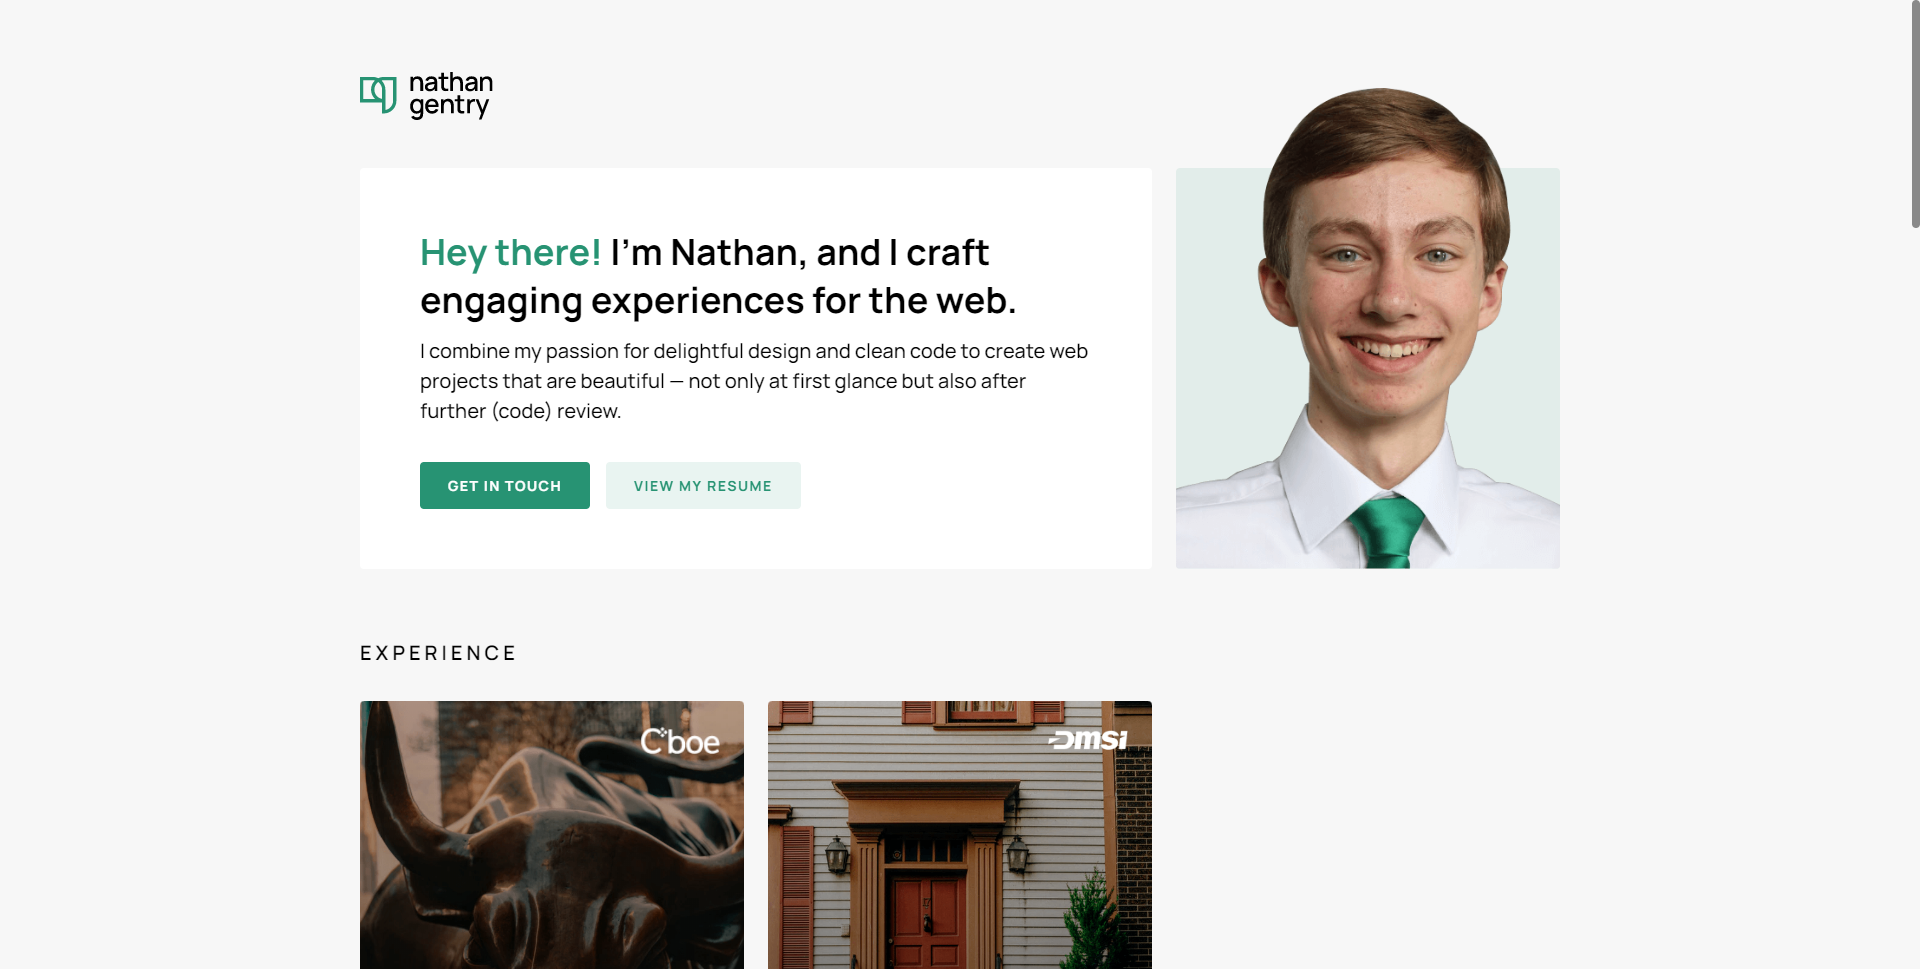
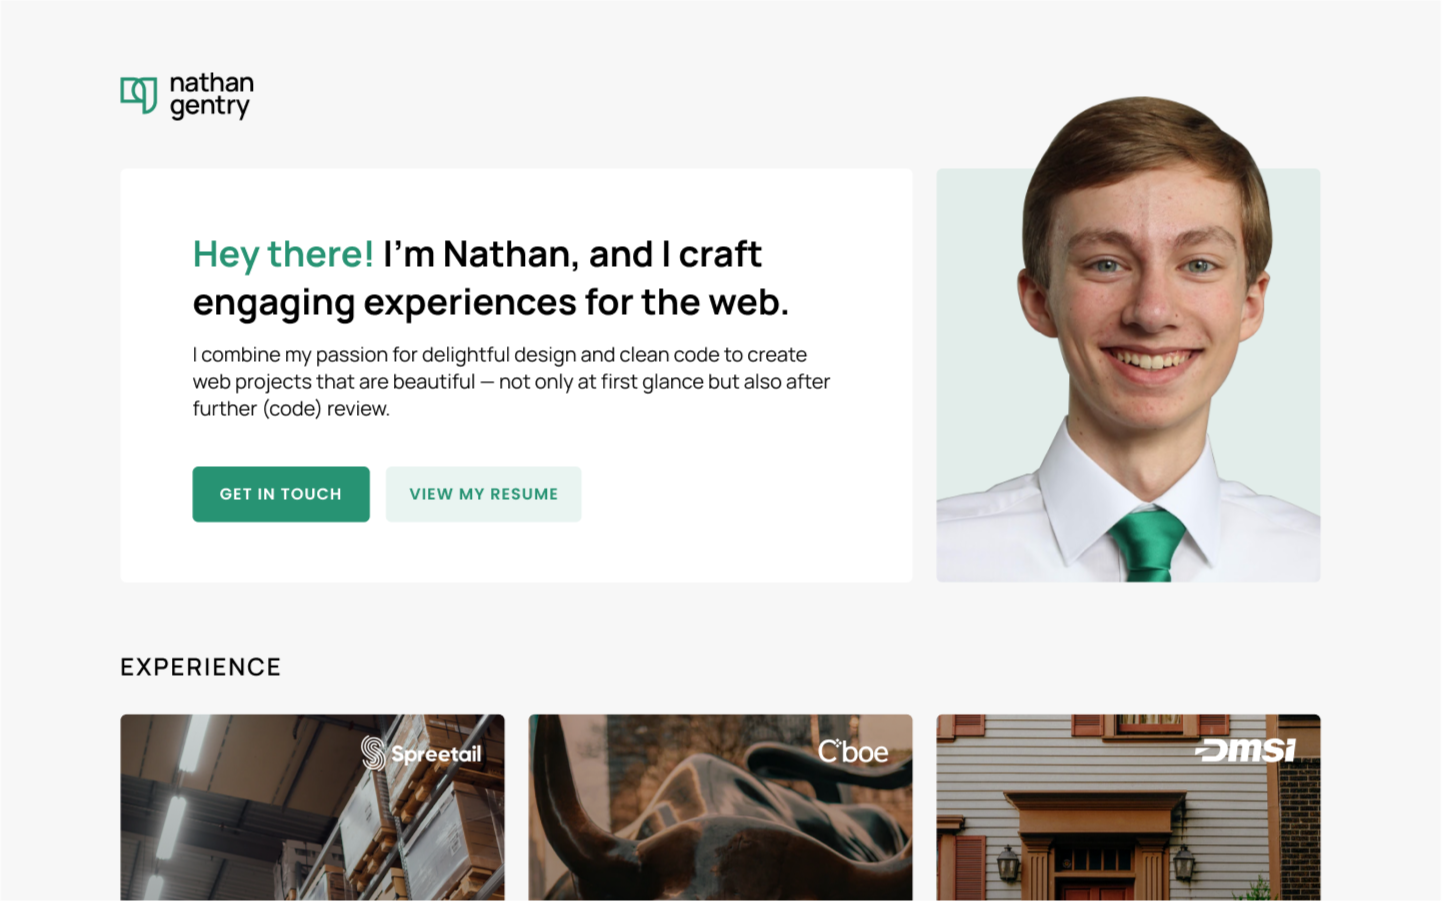
Fall 2021 Updates

diff --git a/src/pages/Home/Home.js b/src/pages/Home/Home.js
@@ -18,12 +18,14 @@ import ContactSection from '../../components/Section/ContactSection';
 import Footer from '../../components/Footer/Footer';
 
 import data from '../../companyData';
+import spreetailMain from '../../assets/spreetailMain.png';
+import spreetailLogo from '../../assets/spreetailLogo.png';
 import cboeMain from '../../assets/cboeMain.png';
 import cboeLogo from '../../assets/cboeLogo.png';
 import dmsiMain from '../../assets/dmsiMain.png';
 import dmsiLogo from '../../assets/dmsiLogo.png';
-import evergreenMain from '../../assets/evergreenMain.png';
-import evergreenLogo from '../../assets/evergreenLogo.png';
+import shindigMain from '../../assets/shindigMain.png';
+import shindigLogo from '../../assets/shindigLogo.png';
 import ngmeMain from '../../assets/ngmeMain.png';
 import ngmeLogo from '../../assets/ngmeLogo.png';
 import bulletinMain from '../../assets/bulletinMain.png';
@@ -107,6 +109,28 @@ const Home = props => {
 
     const experienceData = [
         {
+            id: 'spreetail',
+            title: 'Creating self-service tools empowering warehouse managers nationwide',
+            mainImage: spreetailMain,
+            logoImage: spreetailLogo,
+            company: 'Spreetail',
+            location: 'Lincoln, NE',
+            position: 'Software Development Intern',
+            timeframe: 'Summer 2021',
+            skills: [
+                ['C#', '.NET', 'Entity Framework'],
+                ['React', 'JavaScript', 'GitLab'],
+                ['MVC Framework', 'Jira']
+            ],
+            overview: [
+                'Spreetail is an e-commerce company helping businesses get into e-commerce by storing their products and listing them on more than a dozen online marketplaces. In my 10 weeks at Spreetail, I worked in coordination with the Supply Chain Operations team to develop a brand new suite of self-service tools that empower warehouse managers across the nation to handle data management in their warehouses. These tools offloaded tedious tasks for developers, which had a particular business impact for Spreetail as they look to grow their existing warehouses and expand into new ones.'
+            ],
+            myRole: [
+                'My experience at Spreetail allowed me to get experience working with the full stack of an MVC application. I started my summer with front-end work in React, creating the initial page that would act as a template for our other tools down the line. These pages were centered around leveraging third-party software and internal components to create custom data tables that effectively presented database information to a non-technical end-user.',
+                'After making that first step into the front-end, I transitioned to back-end work in C# and .NET, establishing the controllers, services, accessors, and interfaces necessary to interact with the database using best practices. For the remainder of the summer, I leveraging my full-stack experience to efficiently build out the back-end for additional tools. All-in-all, my colleagues and I collaborated to create tools that empowered warehouse managers to set up new picking carts, packing stations, and label printers.'
+            ]
+        },
+        {
             id: 'cboe',
             title: 'Developing a custom CMS for a high-traffic market insights blog',
             mainImage: cboeMain,
@@ -124,9 +148,9 @@ const Home = props => {
                 'Cboe Global Markets is a major player in the markets and exchanges industry. During the summer of 2020, they were transitioning their market insights blog into a news and video hub to create a more engaging experience for users. As my intern project, I created a content management system (CMS) for the marketing and communications team to streamline publishing content to the new site.'
             ],
             myRole: [
-                'A major focus of mine was on the front end of the application. I communicated effectively in a remote setting with the lead UI designer and stakeholders in the marketing and communications team. Through this collaboration, I translated wireframes into React code, while incorporating changes that benefited end-users.',
+                'A major focus of mine was on the front-end of the application. I communicated effectively in a remote setting with the lead UI designer and stakeholders in the marketing and communications team. Through this collaboration, I translated wireframes into React code, while incorporating changes that benefited end-users.',
                 'For example, the initial design segmented post creation, forcing the user to insert one paragraph, image, or video at a time. When evaluating from the user’s perspective, I felt this would be frustrating — especially compared to their current workflow. Instead, I adapted a familiar rich text editor to meet our project\'s needs while allowing authors to write posts more seamlessly.',
-                'In addition to implementing front end code, I also created API endpoints and library code in Python, as well as database tables in PostgreSQL to ensure uninterrupted data flow from end-to-end.'
+                'In addition to implementing front-end code, I also created API endpoints and library code in Python, as well as database tables in PostgreSQL to ensure uninterrupted data flow from end-to-end.'
             ]
         },
         {
@@ -156,20 +180,22 @@ const Home = props => {
 
     const projectData = [
         {
-            id: 'evergreen',
-            title: 'Launching a design agency that creates dynamic brands and websites',
-            mainImage: evergreenMain,
-            logoImage: evergreenLogo,
-            project: 'Evergreen Design Agency',
-            timeframe: 'Summer 2020 – Present',
+            id: 'shindig',
+            title: 'Launching a web app to help hosts navigate party planning in a pandemic',
+            mainImage: shindigMain,
+            logoImage: shindigLogo,
+            project: 'Shindig',
+            timeframe: 'Spring 2021',
             skills: [
-                ['React', 'CSS', 'Firebase'],
-                ['UI/UX Design', 'Figma', 'Branding'],
-                ['Marketing', 'Entrepreneurship', 'Copywriting']
+                ['UI/UX Design', 'Figma'],
+                ['React', 'CSS-in-JS'],
+                ['Vercel', 'Agile Development']
             ],
             overview: [
-                'Evergreen Design Agency is a branding and website design consulting firm that I launched in June 2020. This involved running social media campaigns to build a presence within the design community and generate potential business leads. Within just weeks, this campaign resulted in a bid for a design project.',
-                'In addition to the social media announcement, I produced a website for Evergreen Design Agency to act as a landing page for the company, highlighting previous work and the value proposition. This process was led from end-to-end by myself, including designing wireframes in Figma and then translating those to code with React and CSS.'
+                'Shindig is an event planning application that helps hosts customize their events to the comfort levels of their guests in the pandemic. The app allows hosts to create events and then send invites to their friends, who fill out a questionnaire on their comfortability with masks, social distancing, food, etc. These questionnaire responses are then compiled into reports and recommendations, enabling hosts to edit the details of their event such that the comfort of their attendees is maximized.',
+                'My primary focus was on user interface design and front-end development. We followed a mobile-first design methodology to create an experience that hosts could easily share with their invitees. When converting those designs to code, I worked on the create event flow and the questionnaire for invitees.',
+                <p>Shindig was developed as part of my Software Engineering IV class with fellow front-end engineer <a href='https://www.linkedin.com/in/daniel-noon/' target='_blank' rel='noopener noreferrer'>Daniel Noon</a> and back-end engineers <a href='https://www.linkedin.com/in/annakrueger1/' target='_blank' rel='noopener noreferrer'>Anna Krueger</a>, <a href='https://www.linkedin.com/in/blohrman' target='_blank' rel='noopener noreferrer'>Benjamin Lohrman</a>, and <a href='https://www.linkedin.com/in/megan-chaffey/' target='_blank' rel='noopener noreferrer'>Megan Chaffey</a>. Throughout the curriculum, we followed the software development lifecycle from requirements elicitation to release.</p>,
+                <a href='https://shindig.one' target='_blank' rel='noopener noreferrer'><button className='secondary'>Check out the project</button></a>
             ],
         },
         {
@@ -193,7 +219,7 @@ const Home = props => {
         },
         {
             id: 'bulletin',
-            title: 'Creating a web application for effective case management',
+            title: 'Creating a centralized hub for law enforcement case management',
             mainImage: bulletinMain,
             logoImage: bulletinLogo,
             project: 'Bulletin by BlueLine',
@@ -208,7 +234,6 @@ const Home = props => {
                 'Creating a product that catered to our target audience was a particular challenge in this project. Officers are notoriously reluctant to adopt new technology, so we placed a strong emphasis on simplifying the user experience. This manifests itself in a bare-bones home screen with a limited set of options to proceed. Additionally, after our user interviews, we incorporated a rotating information panel filled with jokes in an attempt to decrease cynicism in the workplace.',
                 'Beyond the home screen in the case updates page, we once again focused on simplicity. Highlights draw an officer\'s attention to new updates, with cases of particular importance at the top of their list. Additionally, search functionality makes the process of finding old information a breeze, with text highlighting to bring the user\'s attention to any matches.',
                 'Bulletin was developed as a part of the Raikes School\'s Innovation Processes course. Over the course of the semester, my team members and I developed a business model using the Lean Startup methodology. As a proof-of-concept for our business model, we developed this prototype and refined it with feedback from the Nebraska State Patrol.',
-                <a href='https://ip-group-7.web.app/wade' target='_blank' rel='noopener noreferrer'><button className='secondary'>Check out the project</button></a>
             ]
         }
     ]
@@ -250,7 +275,7 @@ const Home = props => {
                                             <button className='primary'>Get in touch</button>
                                         </Link>
                                         <a
-                                            href='https://bit.ly/ngresumefall2020'
+                                            href='https://bit.ly/ngresumefall2021'
                                             target='_blank'
                                             rel='noopener noreferrer'
                                             onClick={() => firebase.analytics().logEvent('link_clicked', { to: 'resume', from: 'hero' })}

diff --git a/src/components/Tile/WelcomeTile.js b/src/components/Tile/WelcomeTile.js
@@ -34,7 +34,7 @@ const WelcomeTile = props => {
                         <button className='primary'>Get in touch</button>
                     </Link>
                     <a
-                        href='https://bit.ly/ngresumefall2020'
+                        href='https://bit.ly/ngresumefall2021'
                         target='_blank'
                         rel='noopener noreferrer'
                         onClick={() => firebase.analytics().logEvent('link_clicked', { to: 'resume', from: 'hero' })}
@@ -45,14 +45,14 @@ const WelcomeTile = props => {
                 :
                 <>
                     <p className='large'>
-                        Currently, I’m searching for a Web Development, UI/UX, or Product Design internship for the summer of 2021 and would love to work at {props.name}.
+                        Currently, I’m searching for a Web Development, UI/UX, or Product Design internship for Summer 2022 and would love to work at {props.name}.
                     </p>
                     <h4>Why {props.name}?</h4>
                     {props.motivation.map(p => <p className='large' key={p}>{p}</p>)}
                     <h4>Why me?</h4>
                     {props.pitch.map(p => <p className='large' key={p}>{p}</p>)}
                     <h4>Still not convinced?</h4>
-                    <p className='large'>You can either check out my portfolio by scrolling down or <a href='https://bit.ly/ngresumefall2020' target='_blank' rel='noopener noreferrer'>view my condensed resume here.</a></p>
+                    <p className='large'>You can either check out my portfolio by scrolling down or <a href='https://bit.ly/ngresumefall2021' target='_blank' rel='noopener noreferrer'>view my condensed resume here.</a></p>
                     <h4>Ready to move forward?</h4>
                     <p className='large'>Send an email to <a href='mailto:hello@nathangentry.me'>hello@nathangentry.me</a> to let me know, and we can figure out the details together from there.</p>
                 </>

diff --git a/src/components/Footer/Footer.js b/src/components/Footer/Footer.js
@@ -74,7 +74,7 @@ const Footer = props => {
                             LinkedIn
                         </a>
                         <a
-                            href='https://bit.ly/ngresumefall2020'
+                            href='https://bit.ly/ngresumefall2021'
                             target='_blank'
                             rel='noopener noreferrer'
                             onClick={() => firebase.analytics().logEvent('link_clicked', { to: 'resume', from: 'footer' })}
@@ -82,7 +82,7 @@ const Footer = props => {
                             Resume
                         </a>
                     </div>
-                    <p id='footer-copyright'>&copy; 2020 Nathan Gentry</p>
+                    <p id='footer-copyright'>&copy; 2021 Nathan Gentry</p>
                 </div>
             </PageWidthWrapper>
         </div >

diff --git a/src/components/StoryTile/StoryTile.scss b/src/components/StoryTile/StoryTile.scss
@@ -63,8 +63,8 @@
                 height: 24px;
                 max-width: 75px;
                 @media (min-width: 550px) {
-                    height: 30px;
-                    max-width: 80px;
+                    height: 36px;
+                    max-width: 90px;
                 }
             }
             
